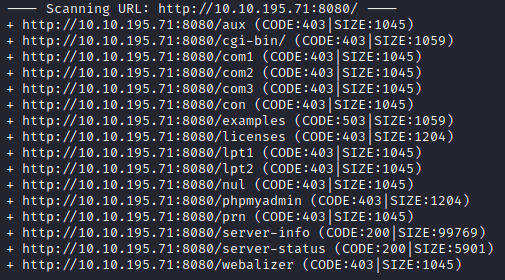
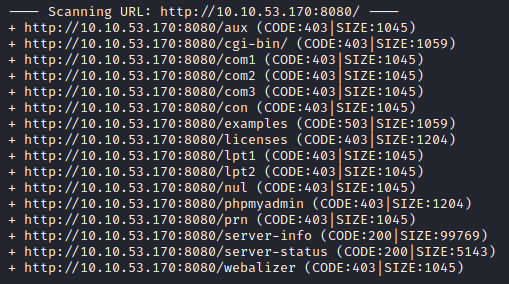
added modifs

diff --git a/_posts/2021-5-23-THM-Blueprint-Writeup.md b/_posts/2021-5-23-THM-Blueprint-Writeup.md
@@ -9,6 +9,7 @@ categories: THM
 In this blog post you will find a writeup for the [Blueprint](https://tryhackme.com/room/blueprint) room on TryHackMe. It's a Windows machine running a vulnerable version of osCommerce, an online store solution. Since this room isn't guided like the other ones, you will find my own steps and explanations.
 
 ## Enumeration
+**IP** : 10.10.53.170
 First we fire up nmap to get more info on the machine and find out open ports. The command that I used is ```nmap -sV -sC -Pn 10.10.53.170``` , the option -sV is used to determine service/version info, -sC to use the default script of nmap and -Pn to disable host discovery. The command outputs the following:
 
 <img src="/images/THM/Blueprint/nmap_output.PNG" width="800" height="800"/>
@@ -79,7 +80,7 @@ The NTLM hash is in the following format : ```Username:SID:LMhash:NThash```. To 
   <li>-m 1000 : specifies the type of hash to crack, 1000 is for NTLM. You can find the complete list for hash types [here](https://hashcat.net/wiki/doku.php?id=example_hashes)</li>
   <li>myhash : the file where I stored the necessary part of the NTLM hash for user Lab, which is the last part.
   </li>
-  <li>SecLists/Passwords/Common-Credentials/common-passwords-win.txt : the wordlist containing commong Windows passwords to compare to. It can be found [here](https://raw.githubusercontent.com/danielmiessler/SecLists/master/Passwords/Common-Credentials/common-passwords-win.txt)</li>
+  <li>SecLists/Passwords/Common-Credentials/common-passwords-win.txt : the wordlist containing commong Windows passwords to compare to. It can be found [here](https://raw.githubusercontent.com/danielmiessler/SecLists/master/Passwords/Common-Credentials/common-passwords-win.txt) </li>
 </ul>
 
 Unfortunately, this doesn't work. I decide instead to go for something easier : [CrackStation](https://crackstation.net/), where you will just provide the hash and the website cracks it for you. Convenient, no ? It uses a dictionary that can be found [here](https://crackstation.net/crackstation-wordlist-password-cracking-dictionary.htm).
